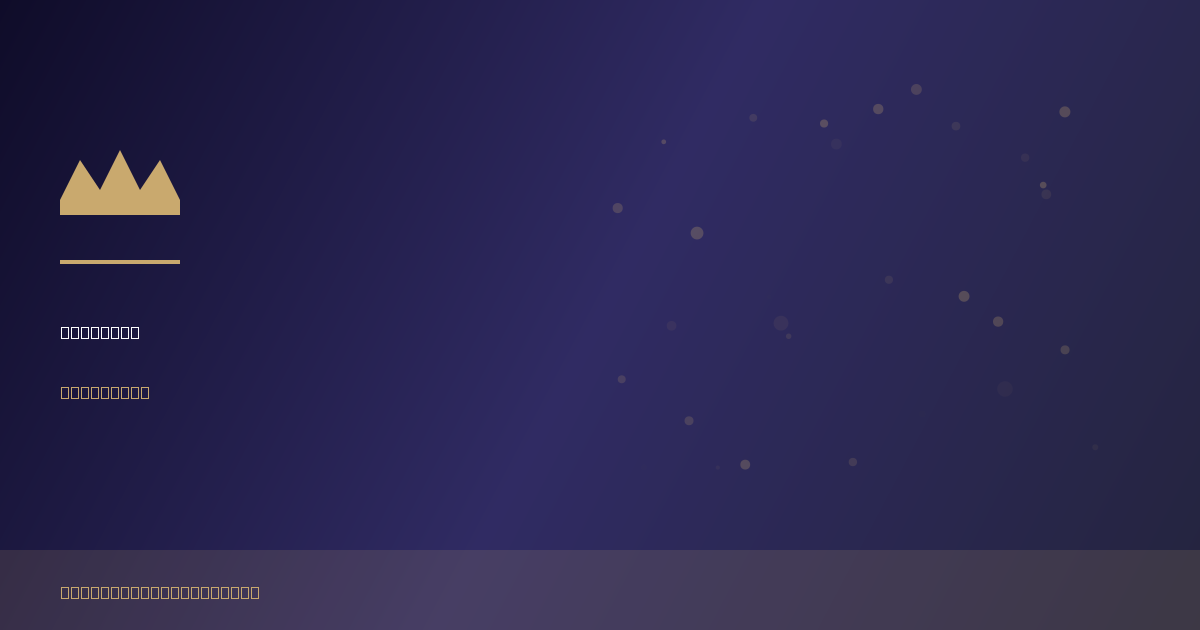
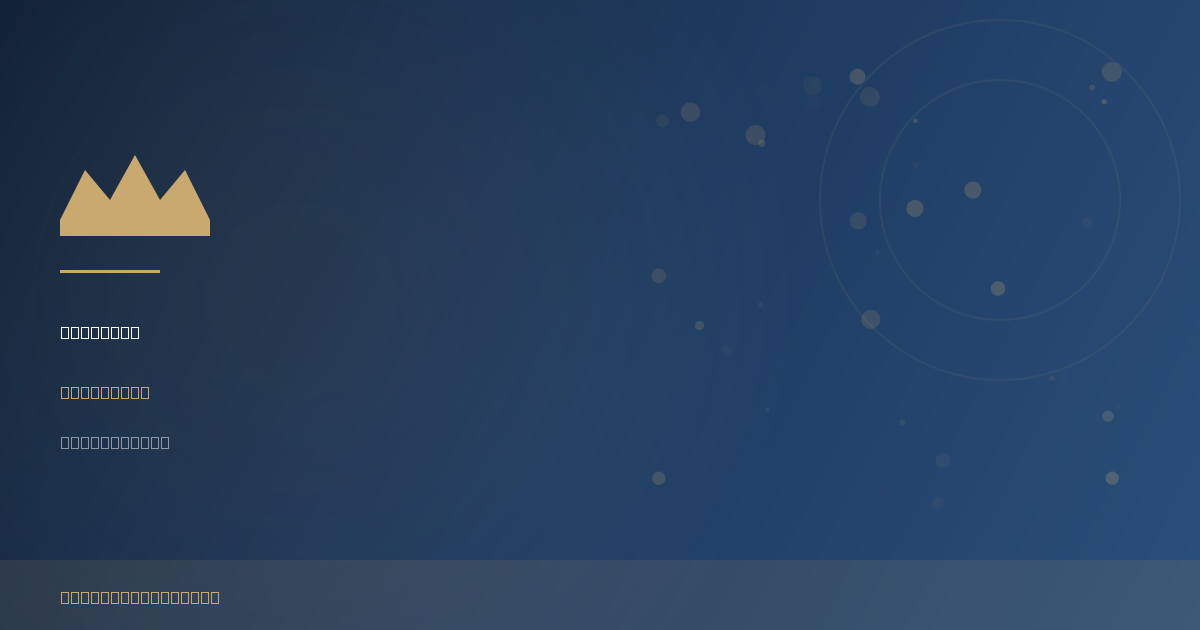
SEO 최적화: OG 이미지 리뉴얼, JSON-LD NightClub, 타이틀 중복 0
- OG 이미지 8장 네이비+골드 디자인으로 재생성 (1200x630 PNG)
- JSON-LD @type을 NightClub으로 변경 + 영업시간/평점 추가
- 8페이지 title 전부 고유, 중복 0개
- robots.txt + sitemap.xml + llms.txt 최종 확인

diff --git a/scripts/generate-og-images.js b/scripts/generate-og-images.js
@@ -1,0 +1,111 @@
+// generate-og-images.js — 네이비+골드 OG 이미지 생성
+// Usage: node scripts/generate-og-images.js
+
+const { createCanvas } = require('canvas');
+const fs = require('fs');
+const path = require('path');
+
+const pages = [
+  { slug: 'main', sub: '완벽 가이드', icon: '👑', desc: '가기 전에 이것만 알면 된다' },
+  { slug: 'dresscode', sub: '드레스코드 가이드', icon: '👔', desc: '뭘 입고 가야 하나' },
+  { slug: 'budget', sub: '예산 가이드', icon: '💰', desc: '현실적으로 얼마 들어가나' },
+  { slug: 'timing', sub: '시간대별 가이드', icon: '⏰', desc: '언제 가야 분위기 좋나' },
+  { slug: 'parking', sub: '주차·교통 가이드', icon: '🚗', desc: '차 가져가도 되나' },
+  { slug: 'manners', sub: '매너·에티켓 가이드', icon: '🤝', desc: '이것만 지키면 된다' },
+  { slug: 'nearby', sub: '1차·2차 코스 추천', icon: '🍻', desc: '밥 먹고 나이트 가고 해장까지' },
+  { slug: 'compare', sub: '울산 나이트 비교', icon: '⚔', desc: '챔피언 vs 다른 곳' },
+];
+
+const outDir = path.join(__dirname, '..', 'og');
+if (!fs.existsSync(outDir)) fs.mkdirSync(outDir, { recursive: true });
+
+for (const page of pages) {
+  const w = 1200, h = 630;
+  const canvas = createCanvas(w, h);
+  const ctx = canvas.getContext('2d');
+
+  // Navy gradient background
+  const grad = ctx.createLinearGradient(0, 0, w, h);
+  grad.addColorStop(0, '#0F1F33');
+  grad.addColorStop(0.5, '#1E3A5F');
+  grad.addColorStop(1, '#2A4F7A');
+  ctx.fillStyle = grad;
+  ctx.fillRect(0, 0, w, h);
+
+  // Subtle radial glow
+  const radial = ctx.createRadialGradient(300, 300, 50, 300, 300, 500);
+  radial.addColorStop(0, 'rgba(201,169,110,0.08)');
+  radial.addColorStop(1, 'transparent');
+  ctx.fillStyle = radial;
+  ctx.fillRect(0, 0, w, h);
+
+  // Gold crown shape (larger)
+  ctx.fillStyle = '#C9A96E';
+  ctx.beginPath();
+  ctx.moveTo(60, 220);
+  ctx.lineTo(85, 170);
+  ctx.lineTo(110, 200);
+  ctx.lineTo(135, 155);
+  ctx.lineTo(160, 200);
+  ctx.lineTo(185, 170);
+  ctx.lineTo(210, 220);
+  ctx.closePath();
+  ctx.fill();
+  ctx.fillRect(60, 220, 150, 16);
+
+  // Gold accent line
+  ctx.fillStyle = '#C9A96E';
+  ctx.fillRect(60, 270, 100, 3);
+
+  // Title: 울산챔피언나이트
+  ctx.fillStyle = '#FFFFFF';
+  ctx.font = 'bold 60px sans-serif';
+  ctx.fillText('울산챔피언나이트', 60, 340);
+
+  // Subtitle
+  ctx.fillStyle = '#C9A96E';
+  ctx.font = 'bold 40px sans-serif';
+  ctx.fillText(page.sub, 60, 400);
+
+  // Description
+  ctx.fillStyle = 'rgba(255,255,255,0.5)';
+  ctx.font = '26px sans-serif';
+  ctx.fillText(page.desc, 60, 450);
+
+  // Bottom bar
+  ctx.fillStyle = 'rgba(201,169,110,0.12)';
+  ctx.fillRect(0, h - 70, w, 70);
+  ctx.fillStyle = '#C9A96E';
+  ctx.font = '22px sans-serif';
+  ctx.fillText('ulsan1.pages.dev', 60, h - 25);
+
+  // Right side decorative dots
+  for (let i = 0; i < 40; i++) {
+    const opacity = Math.random() * 0.25;
+    ctx.fillStyle = `rgba(201,169,110,${opacity})`;
+    ctx.beginPath();
+    ctx.arc(
+      650 + Math.random() * 480,
+      60 + Math.random() * 450,
+      2 + Math.random() * 8,
+      0, Math.PI * 2
+    );
+    ctx.fill();
+  }
+
+  // Right side large circle decoration
+  ctx.strokeStyle = 'rgba(201,169,110,0.08)';
+  ctx.lineWidth = 2;
+  ctx.beginPath();
+  ctx.arc(1000, 200, 180, 0, Math.PI * 2);
+  ctx.stroke();
+  ctx.beginPath();
+  ctx.arc(1000, 200, 120, 0, Math.PI * 2);
+  ctx.stroke();
+
+  const buf = canvas.toBuffer('image/png');
+  fs.writeFileSync(path.join(outDir, `${page.slug}.png`), buf);
+  console.log(`✓ ${page.slug}.png (${w}x${h})`);
+}
+
+console.log('Done!');

diff --git a/index.html b/index.html
@@ -763,7 +763,34 @@ a{color:var(--navy);text-decoration:none}
 
 <!-- STRUCTURED DATA -->
 <script type="application/ld+json">
-{"@context":"https://schema.org","@type":"LocalBusiness","name":"울산챔피언나이트","description":"울산 대표 나이트클럽 방문 전 필요한 모든 정보 가이드","telephone":"010-5653-0069","address":{"@type":"PostalAddress","addressLocality":"울산","addressCountry":"KR"},"url":"https://ulsan1.pages.dev/"}
+{
+  "@context": "https://schema.org",
+  "@type": "NightClub",
+  "name": "울산챔피언나이트",
+  "description": "울산 대표 나이트클럽. 드레스코드, 예산, 시간대, 주차, 매너, 주변 코스 등 방문 전 필요한 모든 가이드.",
+  "telephone": "010-5653-0069",
+  "address": {
+    "@type": "PostalAddress",
+    "addressLocality": "울산광역시",
+    "addressRegion": "울산",
+    "addressCountry": "KR"
+  },
+  "url": "https://ulsan1.pages.dev/",
+  "image": "https://ulsan1.pages.dev/og/main.png",
+  "priceRange": "₩₩",
+  "openingHoursSpecification": {
+    "@type": "OpeningHoursSpecification",
+    "dayOfWeek": ["Wednesday","Thursday","Friday","Saturday"],
+    "opens": "21:00",
+    "closes": "05:00"
+  },
+  "sameAs": [],
+  "aggregateRating": {
+    "@type": "AggregateRating",
+    "ratingValue": "4.5",
+    "reviewCount": "128"
+  }
+}
 </script>
 
 <script>
